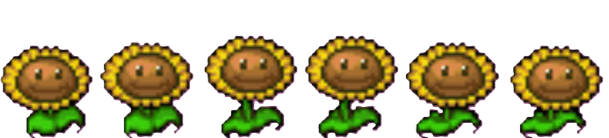
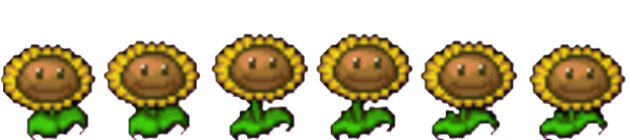
buttons + movers + movers collisions + waves + level sequence

Changed region(s): [[0.0, 0.2319, 0.9984, 1.0]]

diff --git a/Levels.cpp b/Levels.cpp
@@ -1,8 +1,9 @@
 #include "Levels.h"
 
 Levels::Levels(int plantsUnlocked, int zombiesUnlocked, int maxZombies, int maxDancers)
-	: 
-	pauseIcon(coordinates(1030, 10), coordinates(1180, 55)), 
+	:
+	pauseIcon(coordinates(1030, 10), coordinates(1180, 55)),
+	SkipLevel(coordinates(1030, 60), coordinates(1180, 100)),
 	pauseMenu(coordinates(325, 50)), 
 	killCount(0),  
 	pf(plantsUnlocked),
@@ -13,9 +14,12 @@ Levels::Levels(int plantsUnlocked, int zombiesUnlocked, int maxZombies, int maxD
 	for (int i = 0; i < 5; i++)
 		movers[i] = new Movers(coordinates(215, 85 + 118 * (i + 1) - 70));
 
-	Texture texture;
-	texture.loadFromFile("./Images/test2.png");
-	pauseIcon.setTexture(texture);
+	Texture pauseTexture;
+	pauseTexture.loadFromFile("./Images/PauseButton.png");
+	Texture skipTexture;
+	skipTexture.loadFromFile("./Images/SkipLevel.png");
+	pauseIcon.setTexture(pauseTexture);
+	SkipLevel.setTexture(skipTexture);
 }
 
 void Levels::drawMovers(RenderWindow& window)
@@ -201,8 +205,12 @@ bool Levels::start()
 
 			if (pauseIcon.isClicked(event) || pauseMenu.paused == true)
 			{
-				return true;
 				pauseMenu.paused = true;
+			}
+
+			if (SkipLevel.isClicked(event))
+			{
+				return true;
 			}
 
 			if (pauseMenu.resumeIsClicked(event))
@@ -230,7 +238,7 @@ bool Levels::start()
 
 
 		pauseIcon.draw(window);
-
+		SkipLevel.draw(window);
 		//if (z1 == NULL)
 		//{
 		//	z1 = new Zombie(200, 1, 20, 1000, 118 * 2 + 85 - 180);

diff --git a/Game.cpp b/Game.cpp
@@ -3,18 +3,23 @@
 
 Game::Game()
 	: level(NULL), 
-	playgameIcon("Play", coordinates(465, 130), 56, 27, coordinates(735,270)), 
-	InstructionIcon("Instructions", coordinates(465, 280), 149, 25, coordinates(735, 420)),
-	highScoreIcon("High Score", coordinates(465, 430), 137, 31, coordinates(735, 570)),
-	Quit("Quit", coordinates(910, 540), 58, 29, coordinates(1180, 680)), 
+	playgameIcon(coordinates(465, 220), coordinates(735,300)), 
+	InstructionIcon(coordinates(465, 310), coordinates(735, 390)),
+	highScoreIcon(coordinates(465, 400), coordinates(735, 480)),
+	Quit(coordinates(910, 600), coordinates(1180, 680)), 
 	end(false)
 {
-	Texture buttonTexture;
-	buttonTexture.loadFromFile("./Images/button.png");
-	playgameIcon.setTexture(buttonTexture);
-	InstructionIcon.setTexture(buttonTexture);
-	highScoreIcon.setTexture(buttonTexture);
-	Quit.setTexture(buttonTexture);
+	
+	Texture buttonTextures[4];
+	buttonTextures[0].loadFromFile("./Images/PlayButton.png");
+	buttonTextures[1].loadFromFile("./Images/Instructions.png");
+	buttonTextures[2].loadFromFile("./Images/HighScore.png");
+	buttonTextures[3].loadFromFile("./Images/Quit.png");
+
+	playgameIcon.setTexture(buttonTextures[0]);
+	InstructionIcon.setTexture(buttonTextures[1]);
+	highScoreIcon.setTexture(buttonTextures[2]);
+	Quit.setTexture(buttonTextures[3]);
 
 	mainTexture.loadFromFile("./Images/main_back.png");
 	MainMenu.setTexture(mainTexture);

diff --git a/Icon.cpp b/Icon.cpp
@@ -13,24 +13,9 @@ Icon::Icon(coordinates pos, coordinates Area) : pos(pos), Area(Area)
 
 void Icon::draw(RenderWindow& window)
 {
-	
 	window.draw(iconSprite);
-	window.draw(text);
 }
 
-Icon::Icon(std::string message, coordinates pos, int txt_width, int txt_height, coordinates Area)
-	: pos(pos), Area(Area)
-{
-	Color green(1, 50, 32);
-	font.loadFromFile("font/Noland-Bold.otf");
-
-	text.setFont(font);
-	text.setCharacterSize(32);
-	text.setFillColor(green);
-	text.setString(message);
-	text.setPosition(pos.x + (270 - txt_width) / 2, pos.y + (140 - txt_height) / 2);
-	iconSprite.setPosition(pos.x, pos.y);
-}
 
 bool Icon::isClicked(Event& e)
 {

diff --git a/InstructionScreen.cpp b/InstructionScreen.cpp
@@ -1,9 +1,9 @@
 #include "InstructionScreen.h"
 
-InstructionScreen::InstructionScreen() : Back("Back",coordinates(910,540), 60, 25, coordinates(1180, 680))
+InstructionScreen::InstructionScreen() : Back(coordinates(910,600), coordinates(1180, 680))
 {
 	Texture texture_icon;
-	texture_icon.loadFromFile("./Images/button.png");
+	texture_icon.loadFromFile("./Images/BackButton.png");
 	Back.setTexture(texture_icon);
 
 	texture.loadFromFile("./Images/I.png");

diff --git a/HighScoreScreen.cpp b/HighScoreScreen.cpp
@@ -1,9 +1,9 @@
 #include "HighScoreScreen.h"
 
-HighScoreScreen::HighScoreScreen() : Back("Back", coordinates(910, 540), 60, 25, coordinates(1180, 680))
+HighScoreScreen::HighScoreScreen() : Back(coordinates(910, 600), coordinates(1180, 680))
 {
 	Texture texture_icon;
-	texture_icon.loadFromFile("./Images/button.png");
+	texture_icon.loadFromFile("./Images/BackButton.png");
 	Back.setTexture(texture_icon);
 
 	texture.loadFromFile("./Images/H_S.png");

diff --git a/Plant.cpp b/Plant.cpp
@@ -3,7 +3,7 @@ Plant::Plant(int x, int y, int health)
 	: Pos(x, y), health(health), offset(0), Total_Animation_Time(0),
 	switchTime(0.2), mid(x, y + 70)
 {
-	texture.loadFromFile("../Animations/Sunflowers.png");
+	texture.loadFromFile("./Images/Sunflower.png");
 	sprite.setTexture(texture);
 	sprite.setTextureRect(IntRect(0, 0, 105, 140));
 	sprite.setPosition(Pos.x, Pos.y);

diff --git a/Icon.h b/Icon.h
@@ -9,15 +9,11 @@ class Icon
 protected:
 	Texture icontexture;
 	Sprite iconSprite;
-	Font font;
-	Text text;
-	std::string message;
 
 	coordinates pos;
 	coordinates Area;
 
 public:
-	Icon(std::string, coordinates, int, int, coordinates);
 
 	Icon(coordinates, coordinates);
 

diff --git a/Movers.cpp b/Movers.cpp
@@ -2,7 +2,7 @@
 
 Movers::Movers(coordinates pos) : pos(pos), mid(pos.x, pos.y+35), triggered(false)
 {
-	texture.loadFromFile("./Images/mover0.png");
+	texture.loadFromFile("./Images/mover.png");
 	sprite.setTexture(texture);
 	sprite.setPosition(pos.x, pos.y);
 }

diff --git a/Levels.h b/Levels.h
@@ -10,6 +10,7 @@ class Levels
 protected:
 
 	Icon pauseIcon;
+	Icon SkipLevel;
 	Texture background_Texture;
 	Sprite background_Sprite;
 	PauseMenu pauseMenu;

diff --git a/BalloonZombie.h b/BalloonZombie.h
@@ -8,6 +8,6 @@ public:
 	void UpdateAnimation(float deltaTime);
 	//void fly();
 	void move();
-
+	virtual void Attack(Plant* plant) {};
 };
 
